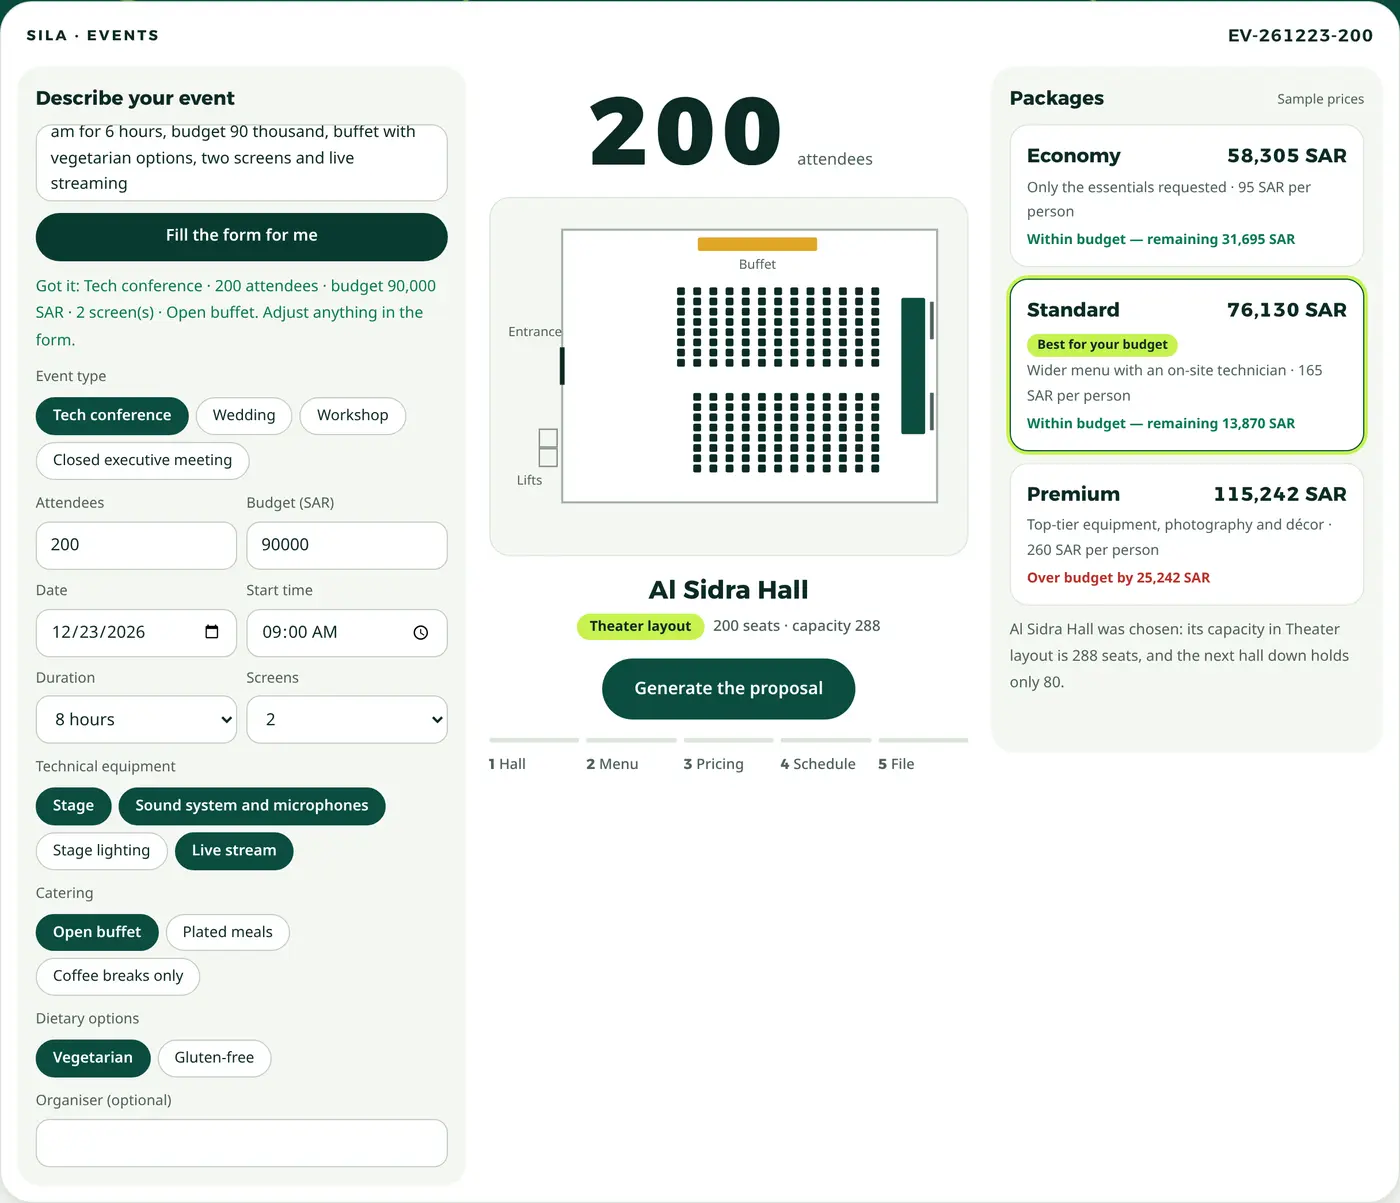
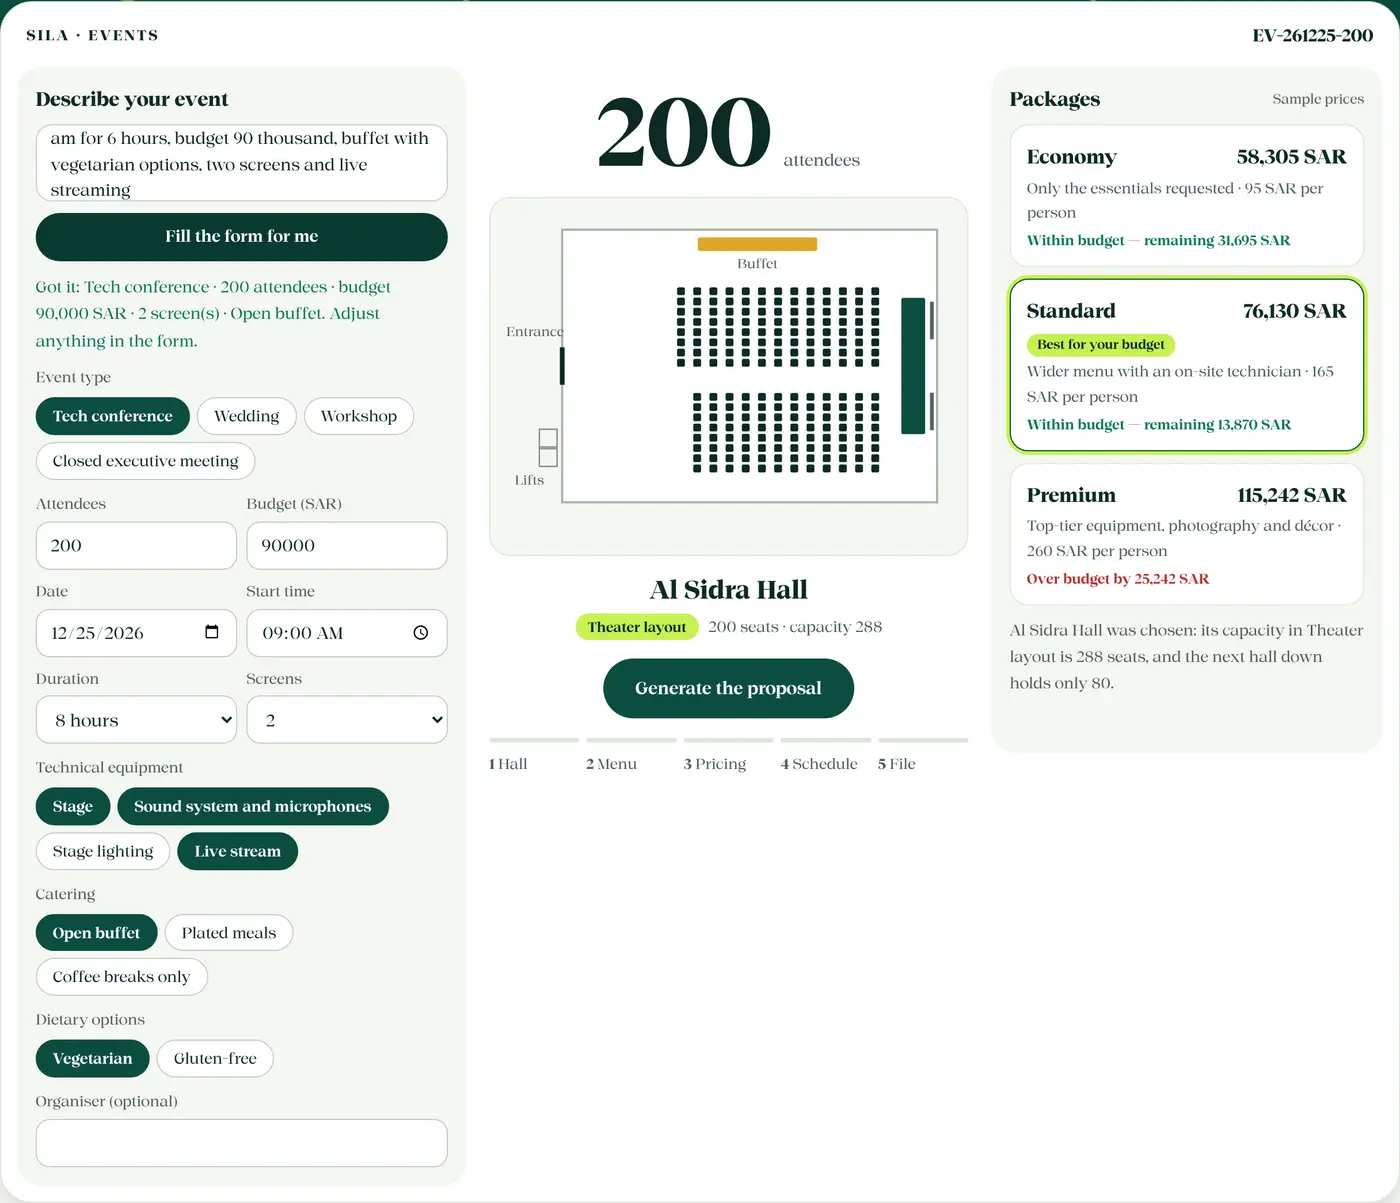
صلة 2.1: إصلاح عنوان القسم الداكن وتحديث لقطات النموذج بالخط الجديد
- عنوان «سبع قدرات» كان ليمونياً فوق تظليل ليموني فلا يُقرأ؛ أُزيل التظليل في الأقسام الداكنة
- إعادة التقاط لقطات القدرات الأربع عشرة (عربي وإنجليزي) بخط ثمانية Display

Claude-Session: https://claude.ai/code/session_012hH8sAm3NZcvLxCc8nJvxT

diff --git a/index.html b/index.html
@@ -32,7 +32,7 @@
 <link rel="preload" href="fonts/thmanyah-serif-display-black.woff2?v=2" as="font" type="font/woff2" crossorigin>
 <link rel="preload" as="image" href="standard.webp" fetchpriority="high">
 <link rel="stylesheet" href="style.css?v=12">
-<link rel="stylesheet" href="experience.css?v=3">
+<link rel="stylesheet" href="experience.css?v=4">
 </head>
 <body data-page="site" data-autoplay="view">
 <a class="x-skip" href="#main" data-en="Skip to content">انتقل إلى المحتوى</a>
@@ -435,6 +435,6 @@
   })();
 </script>
 <script src="app.min.js?v=11"></script>
-<script src="experience.js?v=2"></script>
+<script src="experience.js?v=3"></script>
 </body>
 </html>

diff --git a/experience.css b/experience.css
@@ -117,7 +117,7 @@ html[dir="rtl"] .x-scroll{transform:translateX(50%)}
 
 /* ---------- 5 · system (sticky product showcase) ---------- */
 .x-sys{background:var(--x-dark);color:#fff}
-.x-sys .x-head h2 em{color:var(--lime)}
+.x-sys .x-head h2 em,.x-dark .x-head h2 em{color:var(--lime);box-shadow:none}
 .x-sys .x-head p{color:var(--on-brand)}
 .x-show{display:grid;grid-template-columns:minmax(0,1.25fr) minmax(0,.75fr);gap:clamp(28px,4vw,64px);align-items:start}
 .x-show-visual{position:sticky;top:96px}

diff --git a/landmarks.html b/landmarks.html
@@ -23,7 +23,7 @@
 <link rel="preload" href="fonts/thmanyah-serif-display-black.woff2?v=2" as="font" type="font/woff2" crossorigin>
 <link rel="preload" as="image" href="landmarks/0-0.jpg" fetchpriority="high">
 <link rel="stylesheet" href="style.css?v=12">
-<link rel="stylesheet" href="experience.css?v=3">
+<link rel="stylesheet" href="experience.css?v=4">
 </head>
 <body data-page="landmarks">
 <a class="x-skip" href="#top">انتقل إلى المحتوى</a>

diff --git a/experience.js b/experience.js
@@ -109,7 +109,7 @@
   }
 
   /* ---------- screenshots follow the page language ---------- */
-  const shot = k => 'media/' + k + '-' + (EN ? 'en' : 'ar') + '.webp';
+  const shot = k => 'media/' + k + '-' + (EN ? 'en' : 'ar') + '.webp?v=2';
   $$('img[data-shot-src]').forEach(im => { im.src = shot(im.dataset.shotSrc); });
 
   /* ---------- capabilities: a device that follows the capability in focus (C9) ---------- */
